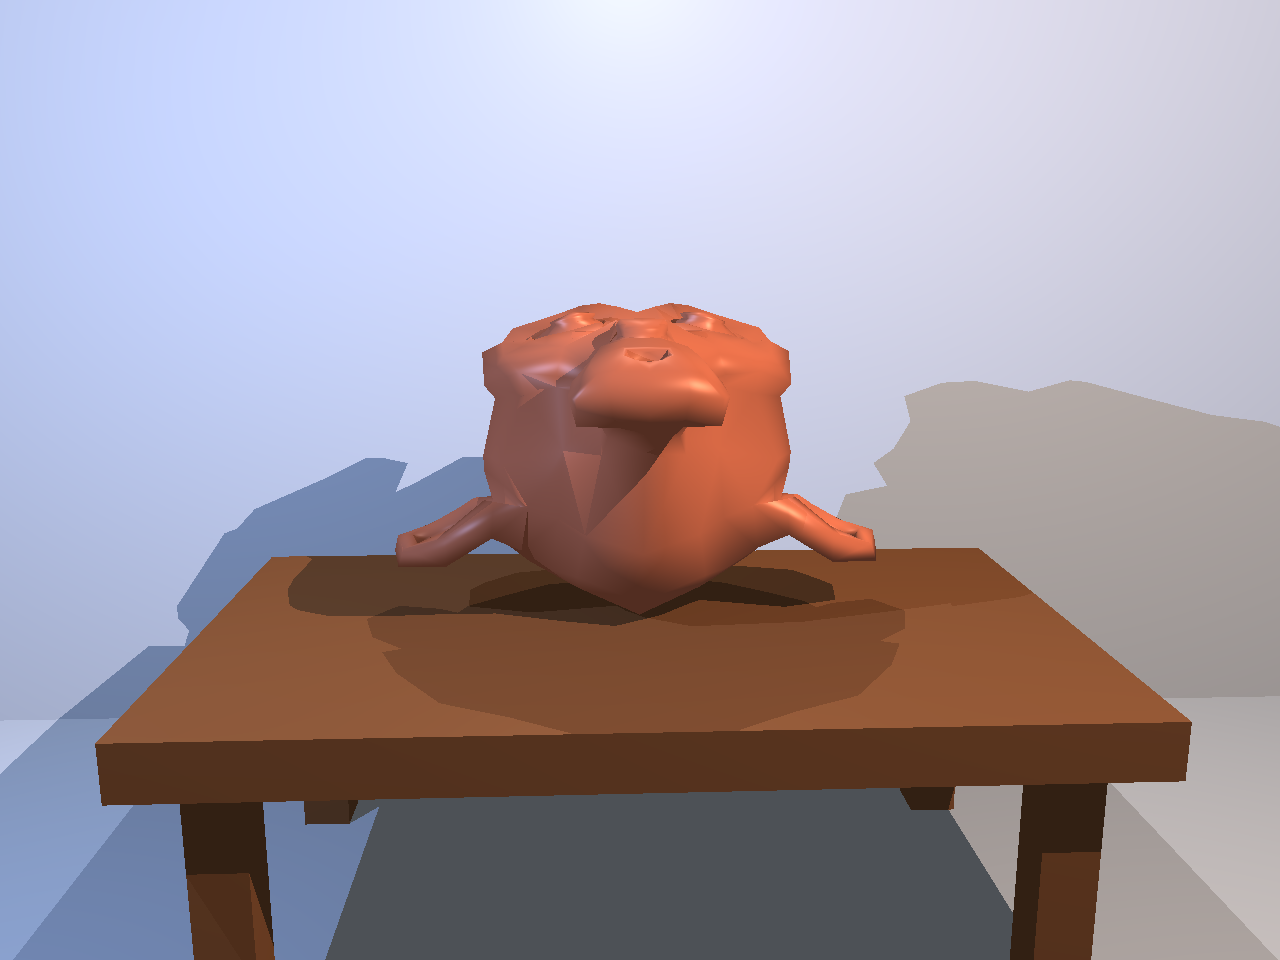
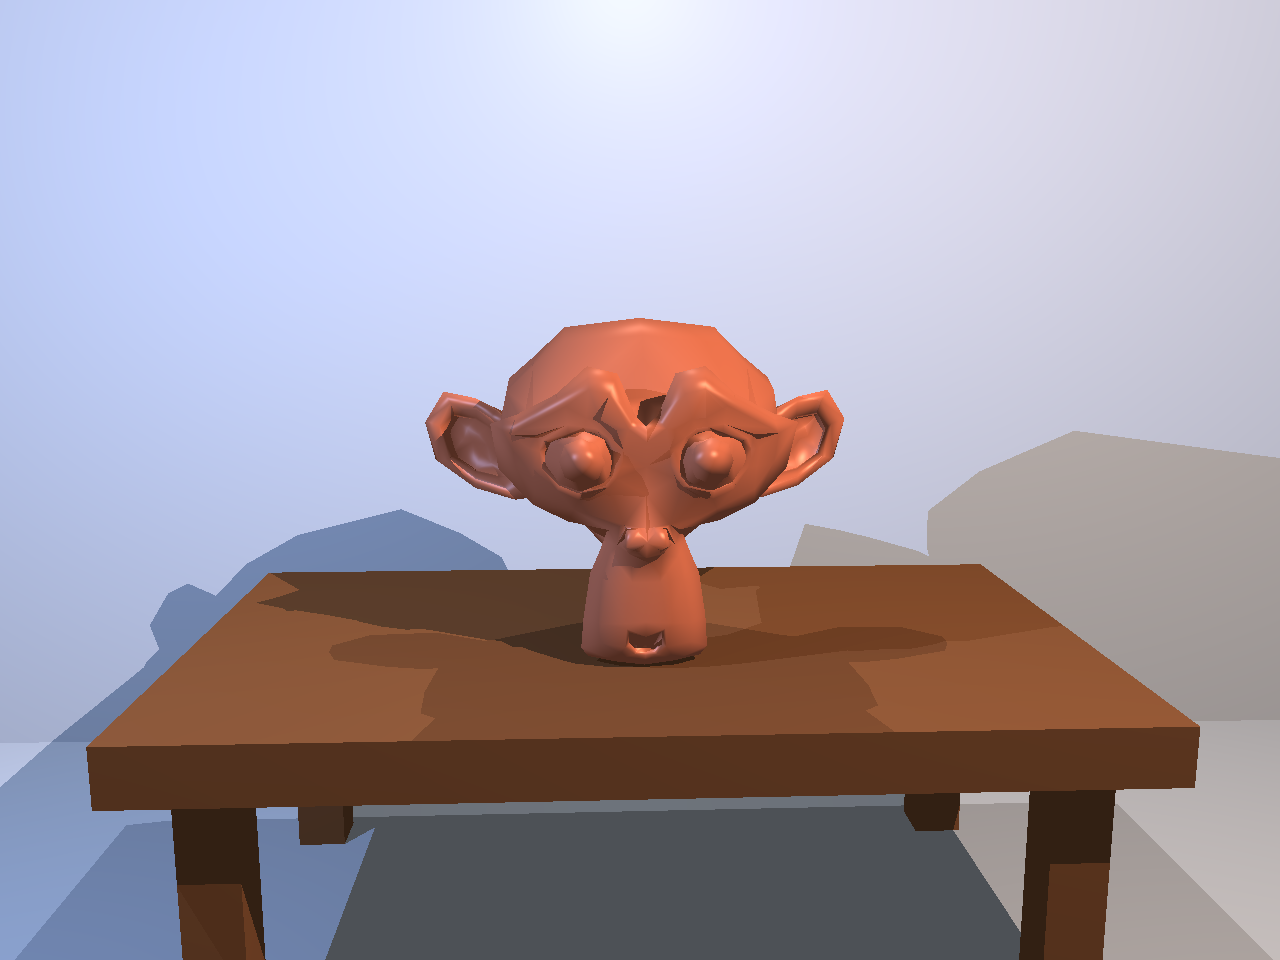
Add upright Suzanne camera views

diff --git a/src/main.rs b/src/main.rs
@@ -63,14 +63,7 @@ fn main() -> Result<(), Box<dyn std::error::Error>> {
             192,
             192,
         )?,
-        "suzanne" => render_view(
-            &Scene::suzanne_scene(),
-            "docs/renders/suzanne_obj.png",
-            Vec3::new(0.3, 2.0, -6.4),
-            Vec3::new(0.0, 0.6, 0.0),
-            1280,
-            960,
-        )?,
+        "suzanne" => render_suzanne_views()?,
         _ => {
             return Err(format!(
                 "unknown scene `{mode}`; use vase, pyramid, pyramid-smooth, capuchino, or suzanne"
@@ -90,6 +83,19 @@ fn render_vase_views() -> Result<(), Box<dyn std::error::Error>> {
         ("docs/renders/vase_right.png", Vec3::new(5.5, 1.8, -2.4)),
     ] {
         render_view(&scene, filename, eye, target, 640, 480)?;
+    }
+    Ok(())
+}
+
+fn render_suzanne_views() -> Result<(), Box<dyn std::error::Error>> {
+    let scene = Scene::suzanne_scene();
+    let target = Vec3::new(0.0, 0.65, 0.0);
+    for (filename, eye) in [
+        ("docs/renders/suzanne_obj.png", Vec3::new(0.3, 1.8, -6.4)),
+        ("docs/renders/suzanne_left.png", Vec3::new(-4.5, 1.8, -5.0)),
+        ("docs/renders/suzanne_right.png", Vec3::new(4.5, 1.8, -5.0)),
+    ] {
+        render_view(&scene, filename, eye, target, 1280, 960)?;
     }
     Ok(())
 }

diff --git a/src/scene.rs b/src/scene.rs
@@ -165,16 +165,16 @@ impl Scene {
                 bounds.max(vertex)
             });
         let center = (minimum + maximum) * 0.5;
-        let scale = 1.8 / (maximum.z - minimum.z);
+        let scale = 1.8 / (maximum.y - minimum.y);
         for vertex in &mut suzanne.vertices {
             *vertex = Vec3::new(
                 (vertex.x - center.x) * scale,
-                (vertex.z - minimum.z) * scale + TABLE_TOP_Y,
-                (vertex.y - center.y) * scale,
+                (vertex.y - minimum.y) * scale + TABLE_TOP_Y,
+                -(vertex.z - center.z) * scale,
             );
         }
         for normal in &mut suzanne.normals {
-            *normal = Vec3::new(normal.x, normal.z, normal.y).normalize_or_zero();
+            *normal = Vec3::new(normal.x, normal.y, -normal.z).normalize_or_zero();
         }
         suzanne.update_bounds();
 

diff --git a/README.md b/README.md
@@ -90,10 +90,14 @@ smooth normals. The scene converts Tinkercad's Z-up coordinates to the
 renderer’s Y-up coordinates, centers the vase, and scales it onto the tabletop
 without modifying the OBJ file.
 
-The bundled Suzanne model is converted from Blender's Z-up coordinates, placed
-on the same table, and rendered with the same three-light studio:
+The bundled Suzanne model is reoriented from its exported coordinates, placed
+upright on the same table, and rendered with the same three-light studio:
 
 ![Suzanne studio render](docs/renders/suzanne_obj.png)
+
+![Suzanne left view](docs/renders/suzanne_left.png)
+
+![Suzanne right view](docs/renders/suzanne_right.png)
 
 ## How the vase scene was made
 
@@ -145,7 +149,7 @@ cargo run --release -- pyramid-smooth
 # Full 50,000-triangle supplied OBJ at preview resolution
 cargo run --release -- capuchino
 
-# Suzanne in the vase studio at 1280 x 960
+# Three Suzanne views in the vase studio at 1280 x 960
 cargo run --release -- suzanne
 
 # Tests and static checks
